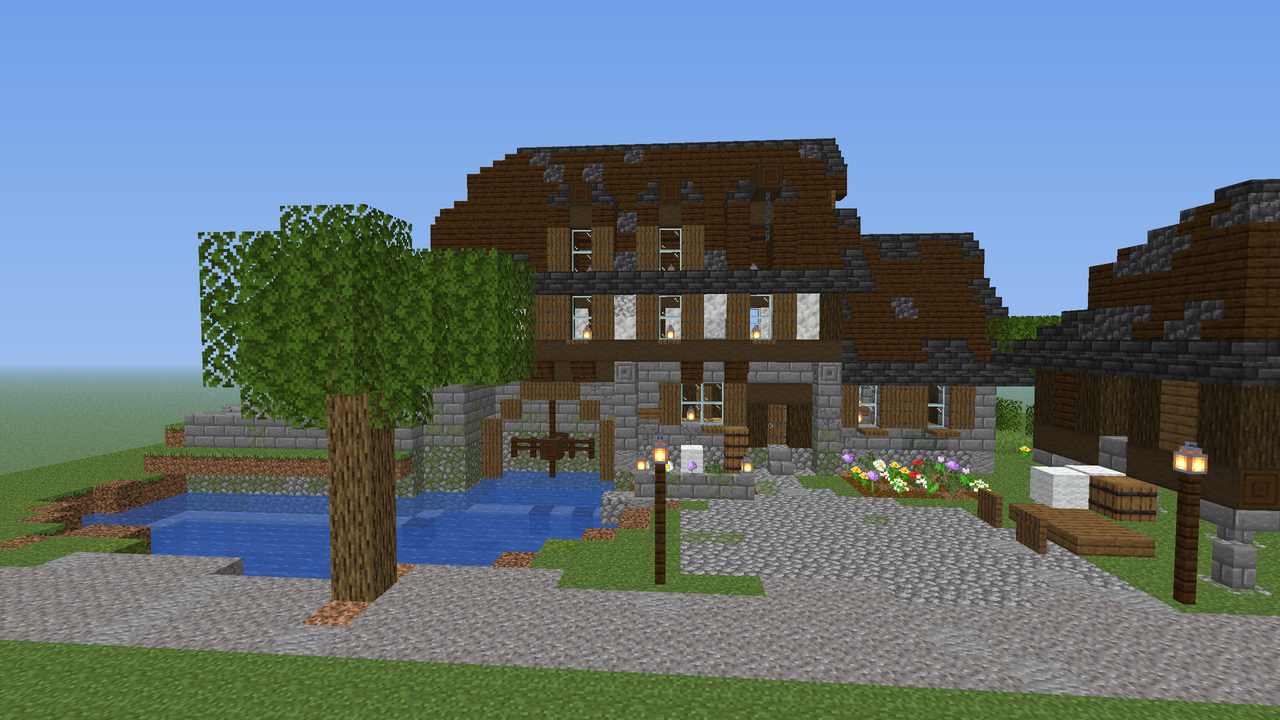
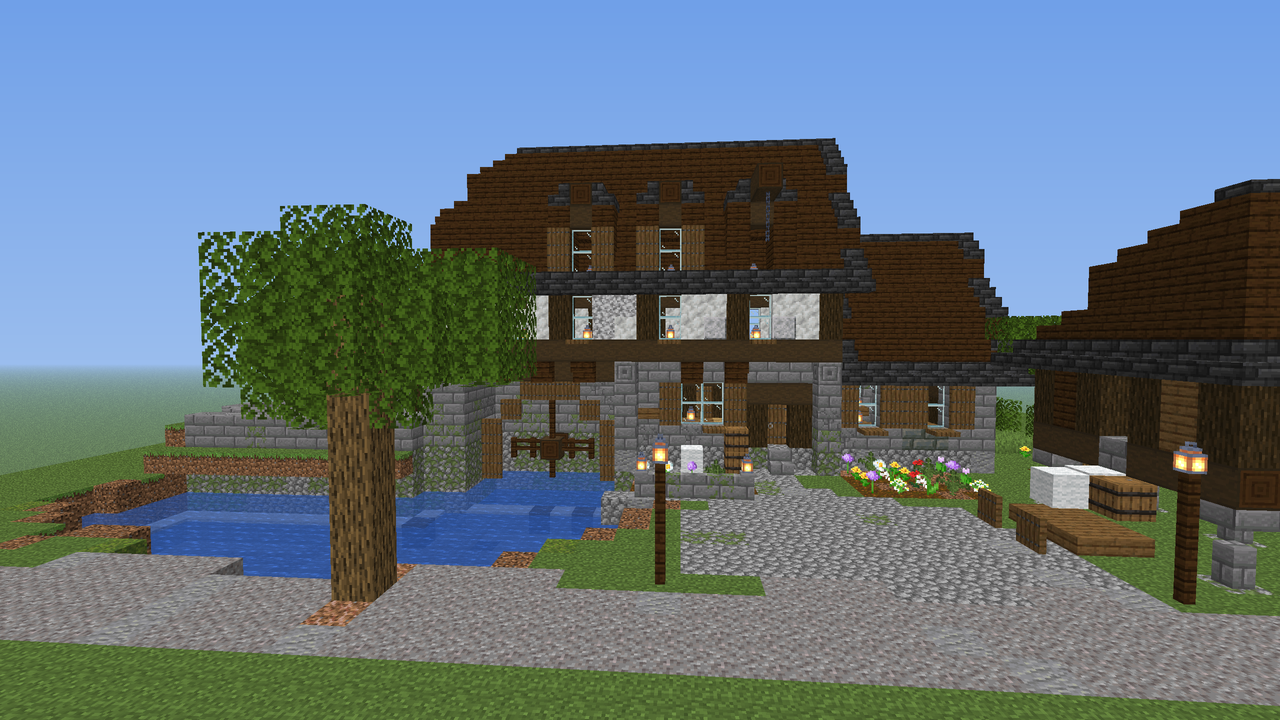
Mill one-family roof, calm facade; sill is enough for windows
Lint no longer forces shutters; Mill dark-oak field with deepslate-tile trim, shutters on 4 windows.

diff --git a/design/scripts/house_mill.py b/design/scripts/house_mill.py
@@ -42,7 +42,7 @@ STONE = Ramp(P("stone_bricks"), [(P("cracked_stone_bricks"), .13, None), (P("mos
                                  (P("tuff_bricks"), .09, None)], seed=3)
 PLINTH = Ramp(P("cobblestone"), [(P("mossy_cobblestone"), .27, "low"), (P("andesite"), .15, None)], seed=4)
 PLASTER = Ramp(P("calcite"), [(P("diorite"), .18, None), (P("polished_diorite"), .12, "low")], seed=5, height=3, y0=5)
-ROOF = Ramp("dark_oak", [("deepslate_tile", .1, None), ("cobbled_deepslate", .08, None)], seed=8, height=14, y0=8)
+ROOF = Ramp("dark_oak", [], seed=8, height=14, y0=8)
 FLOOR = Ramp(P("spruce_planks"), [(P("oak_planks"), .22, None), (P("dark_oak_planks"), .15, None)], seed=9)
 COBBLE = Ramp(P("cobblestone"), [(P("mossy_cobblestone"), .16, None), (P("andesite"), .14, None)], seed=31)
 GRAVEL = Ramp(P("gravel"), [(P("andesite"), .12, None)], seed=22)
@@ -56,7 +56,7 @@ RAMPS = {
     "plinth": ["cobblestone", "mossy_cobblestone", "andesite"],
     "plaster": ["calcite", "diorite", "polished_diorite"],
     "timber": ["dark_oak_log", "stripped_dark_oak_log", "dark_oak_planks"],
-    "roof": ["dark_oak_stairs", "cobbled_deepslate_stairs", "deepslate_tile_stairs"],
+    "roof": ["dark_oak_stairs", "deepslate_tile_stairs", "deepslate_tile_slab"],
     "floor": ["spruce_planks", "oak_planks", "dark_oak_planks"],
 }
 
@@ -219,7 +219,7 @@ def build():
         put(19, y, 15, lg(BEAM, "y")) if y == 2 else None
     # north upper windows and the hoist hatch above window 1
     for i, x in enumerate((18, 22, 26)):
-        window(WNU, x, 6, height=2, shutters="spruce", box=None,
+        window(WNU, x, 6, height=2, shutters=None, box=None,
                sill="spruce")
 
     # ================= hall roof (steep, half-hip at the east end) =================
@@ -263,14 +263,14 @@ def rest(b: Build, roof: dict, slot: dict, pond: set) -> dict:
     for x in (24, 28):
         window(WSG, x, 2, height=2, shutters="spruce", box=None, sill="spruce") if x == 24 else None
     for i, x in enumerate((17, 21, 25, 29)):
-        window(WSG, x, 6, height=2, shutters="spruce", box=None, sill="spruce")
+        window(WSG, x, 6, height=2, shutters=None, box=None, sill="spruce")
     for x in (29,):
-        window(Wall(b, "north", "east", (0, ZU0)), x, 6, height=2, shutters="spruce", box=None, sill="spruce")
+        window(Wall(b, "north", "east", (0, ZU0)), x, 6, height=2, shutters=None, box=None, sill="spruce")
     window(WEG, 21, 2, height=2, shutters="spruce", box=None, sill="spruce")
-    window(WEG, 19, 6, height=2, shutters="spruce", box=None, sill="spruce")
-    window(WEG, 19, 10, height=1, shutters="spruce", box=None, sill="spruce")
+    window(WEG, 19, 6, height=2, shutters=None, box=None, sill="spruce")
+    window(WEG, 19, 10, height=1, shutters=None, box=None, sill="spruce")
     for z in (17, 21):                                                  # west gable windows above the wing roof
-        window(WWG, z, 11, height=2, shutters="spruce", box=None, sill="spruce")
+        window(WWG, z, 11, height=2, shutters=None, box=None, sill="spruce")
     for y in range(9, 15):                                              # king post
         if b.get(X0, y, 19) is not None and "plaster" not in b.block(X0, y, 19) and b.block(X0, y, 19) != "air":
             put(X0, y, 19, lg(BEAM, "y"))
@@ -309,7 +309,7 @@ def rest(b: Build, roof: dict, slot: dict, pond: set) -> dict:
     WWW = Wall(b, "west", "south", (WX0, 0))
     for u in (10, 13):
         window(WWN, u, 2, height=2, shutters="spruce", box=None, sill="spruce")
-    window(WWS, 11, 2, height=2, shutters="spruce", box=None, sill="spruce")
+    window(WWS, 11, 2, height=2, shutters=None, box=None, sill="spruce")
     door(WWW, 19, 1, mat="spruce", hood=True)
     put(7, 0, 19, st("stone_brick", "east"))
     wing = K.gable_roof_s(b, (WX0 - 1, WZ0 - 1, WX1, WZ1 + 1), ML.Y_EAVE_WING, axis="x", field="dark_oak", eave="deepslate_tile",
@@ -380,9 +380,9 @@ def rest(b: Build, roof: dict, slot: dict, pond: set) -> dict:
     door(WGE, 7, 3, mat="spruce", hood=False)
     put(8, 2, 7, P("stone_bricks")); put(9, 0, 7, P("stone_bricks")); put(9, 1, 7, st("stone_brick", "west"))
     put(10, 0, 7, st("stone_brick", "west"))
-    window(WGN, 4, 3, height=1, shutters="spruce", box=None, sill="spruce")
-    window(WGS, 4, 3, height=1, shutters="spruce", box=None, sill="spruce")
-    window(WGW, 7, 3, height=1, shutters="spruce", box=None, sill="spruce")
+    window(WGN, 4, 3, height=1, shutters=None, box=None, sill="spruce")
+    window(WGS, 4, 3, height=1, shutters=None, box=None, sill="spruce")
+    window(WGW, 7, 3, height=1, shutters=None, box=None, sill="spruce")
     gran = K.pyramid_roof(b, (GX0 - 1, GZ0 - 1, GX1 + 1, GZ1 + 1), 5, field="dark_oak", eave="deepslate_tile",
                           rake="deepslate_tile", ridge=P("dark_oak_planks"), cap=sl("deepslate_tile"), name="granary",
                           ramp_pick=lambda x, y, z: ROOF.pick(x, y, z), riser=P("dark_oak_planks"))
@@ -507,7 +507,7 @@ def generate(write: bool = True) -> dict:
     try:
         build_lint.lint_house(g, b.notes, {}, palette)
         farm_lint.lint_place(g, b.notes, points, palette, hero=True, name="mill", water_frontage=(11, 3, 44, 14),
-                             size=size, ground=GROUND, strict_roofs=False)
+                             size=size, ground=GROUND)
     except build_lint.LintError:
         OUT_DIR.mkdir(parents=True, exist_ok=True)
         place_views.mill_previews(g, OUT_DIR)

diff --git a/design/scripts/lib/build_lint.py b/design/scripts/lib/build_lint.py
@@ -204,8 +204,6 @@ def check_windows(g: dict, notes: Notes, errors: list) -> None:
                             lit = True
         if not has_sill:
             errors.append(f"{name}: needs a sill (trapdoor, slab or stair under it)")
-        if not (shutters or box):
-            errors.append(f"{name}: needs shutters on both sides or a flower box")
         if not lit:
             errors.append(f"{name}: needs a lit interior (lantern, campfire, shroomlight ...) within 3 blocks behind it")
 
